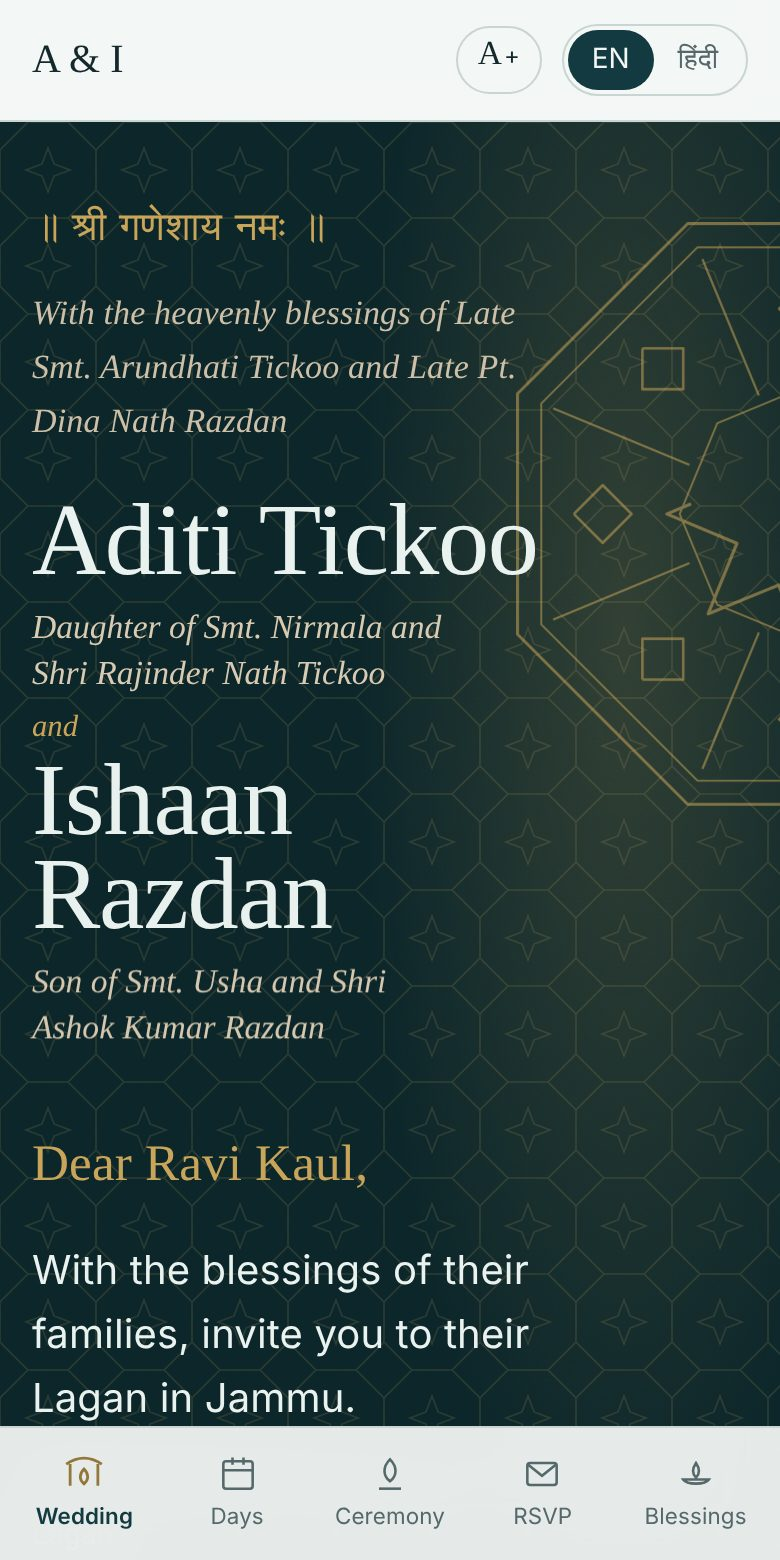
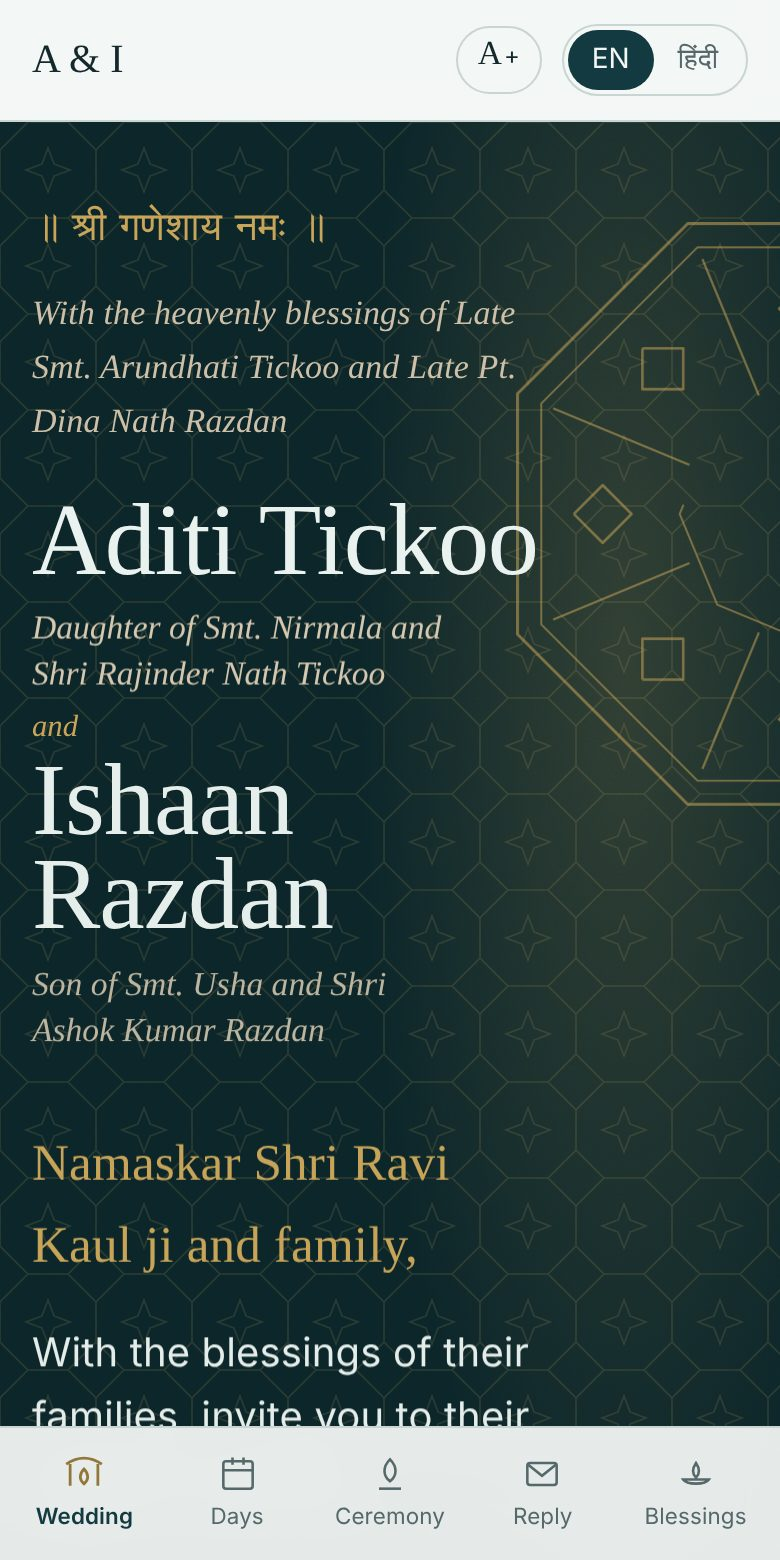
Sync from sales-page: demo fixes
Claude-Session: https://claude.ai/code/session_01Mnn13FQfUiHrSMHStJ5SNg

diff --git a/demo/aditi-ishaan/index.html b/demo/aditi-ishaan/index.html
@@ -44,7 +44,7 @@
     <nav class="nav" aria-label="Sections">
       <a href="#days" data-v="days" data-i18n="nav_days">The days</a>
       <a href="#ceremony" data-v="ceremony" data-i18n="nav_ceremony">Ceremony guide</a>
-      <a href="#rsvp" data-v="rsvp" data-i18n="nav_rsvp">RSVP</a>
+      <a href="#rsvp" data-v="rsvp" data-i18n="nav_rsvp">Reply</a>
       <a href="#blessings" data-v="wishes" data-i18n="nav_bless">Blessings</a>
     </nav>
     <button type="button" class="size" id="size-btn" aria-pressed="false" aria-label="Larger text" title="Larger text">A<small>+</small></button>
@@ -118,7 +118,6 @@
         <svg width="16" height="16" viewBox="0 0 16 16" fill="none" stroke="currentColor" aria-hidden="true"><circle cx="8" cy="8" r="7"/><path d="M8 7v4M8 4.5v.5"/></svg>
         <p id="draft-note"></p>
       </div>
-      <div class="tumbak" id="tumbak"></div>
       <div class="rite-bar">
         <div class="index" id="rite-index" role="tablist" aria-label="Jump to a rite"></div>
         <div class="bar-arrows">
@@ -157,7 +156,7 @@
   <section id="rsvp" class="sec rsvp-stage" data-view="rsvp" aria-labelledby="rsvp-h">
     <div class="wrap rsvp-wrap">
       <h2 id="rsvp-h" data-i18n="rsvp_h">Will you join us?</h2>
-      <p class="lede" data-i18n="rsvp_lede">Your invitation is waiting. Open it and reply by 15 January 2027. One reply per family is enough.</p>
+      <p class="lede" data-i18n="rsvp_lede">Let the family know if you will be there. Please reply by 15 January 2027. One reply per family is enough.</p>
       <div class="scene" id="scene">
         <div class="card-slot" id="card-slot" inert>
           <div class="card-inner">
@@ -280,12 +279,6 @@
 <footer>
   <div class="wrap">
     <span data-i18n="foot">The Wedding Story by Pixel &amp; Ink. Made for the Tickoo and Razdan families.</span>
-    <a class="linkbtn" href="#family" data-i18n="org_btn">Family view: replies and guest list</a>
-    <span class="theme-pick" role="group" aria-label="Look"><span data-i18n="theme_l">Look</span>
-      <button type="button" data-set-theme="dejhoor">Dejhoor</button>
-      <button type="button" data-set-theme="khatamband">Khatamband</button>
-      <button type="button" data-set-theme="marigold">Marigold</button>
-    </span>
   </div>
 </footer>
 
@@ -293,7 +286,7 @@
   <a href="#home" data-v="home"><svg viewBox="0 0 24 24" fill="none" stroke="currentColor" stroke-width="1.4" aria-hidden="true"><path d="M5 20V9M19 20V9M3 9q9-6 18 0"/><path d="M12 19c-2.5-2-2.5-5 0-7.5 2.5 2.5 2.5 5.5 0 7.5z"/></svg><span data-i18n="tab_home">Wedding</span></a>
   <a href="#days" data-v="days"><svg viewBox="0 0 24 24" fill="none" stroke="currentColor" stroke-width="1.4" aria-hidden="true"><rect x="4" y="5" width="16" height="15" rx="1.5"/><path d="M4 10h16M9 3v4M15 3v4"/></svg><span data-i18n="tab_days">Days</span></a>
   <a href="#ceremony" data-v="ceremony"><svg viewBox="0 0 24 24" fill="none" stroke="currentColor" stroke-width="1.4" aria-hidden="true"><path d="M12 4c4 4 4 9 0 12-4-3-4-8 0-12z"/><path d="M6 20h12"/></svg><span data-i18n="tab_cer">Ceremony</span></a>
-  <a href="#rsvp" data-v="rsvp"><svg viewBox="0 0 24 24" fill="none" stroke="currentColor" stroke-width="1.4" aria-hidden="true"><rect x="4" y="6" width="16" height="12" rx="1.5"/><path d="m4.5 7 7.5 6 7.5-6"/></svg><span data-i18n="tab_rsvp">RSVP</span></a>
+  <a href="#rsvp" data-v="rsvp"><svg viewBox="0 0 24 24" fill="none" stroke="currentColor" stroke-width="1.4" aria-hidden="true"><rect x="4" y="6" width="16" height="12" rx="1.5"/><path d="m4.5 7 7.5 6 7.5-6"/></svg><span data-i18n="tab_rsvp">Reply</span></a>
   <a href="#blessings" data-v="wishes"><svg viewBox="0 0 24 24" fill="none" stroke="currentColor" stroke-width="1.4" aria-hidden="true"><path d="M5 15c2 3 12 3 14 0z"/><path d="M12 14c-2-2-2-5 0-8 2 3 2 6 0 8z"/></svg><span data-i18n="tab_bless">Blessings</span></a>
 </nav>
 <div class="toast" id="toast" role="status" aria-live="polite"></div>

diff --git a/weddings/aditi-ishaan.js b/weddings/aditi-ishaan.js
@@ -69,7 +69,7 @@ window.WS_WEDDING={
    "n2_p": "A traditional Kashmiri Pandit vegetarian spread after Posh Puza: dum oluv, nadir yakhin, chaman qaliya, haakh and rice, with kahwa to finish.",
    "n3_h": "Taking part",
    "n3_p": "You are welcome to sit close. During Posh Puza every guest is invited to shower the couple with flowers; petals are handed out.",
-   "rsvp_lede": "Your invitation is waiting. Open it and reply by 15 January 2027. One reply per family is enough.",
+   "rsvp_lede": "Let the family know if you will be there. Please reply by 15 January 2027. One reply per family is enough.",
    "case_title": "Lagan invitation",
    "ev_maenz": "Maenziraat, Fri 12 Feb",
    "ev_lagan": "Lagan, Sat 13 Feb",
@@ -103,7 +103,7 @@ window.WS_WEDDING={
    "n2_p": "पोश पूजा के बाद पारंपरिक कश्मीरी पंडित शाकाहारी भोज: दम ओलुव, नदिर यखिन, चमन कलिया, हाख और भात, और अंत में कहवा।",
    "n3_h": "सहभागिता",
    "n3_p": "आप पास बैठ सकते हैं। पोश पूजा में हर अतिथि दंपति पर फूल बरसाता है; पंखुड़ियाँ दी जाएँगी।",
-   "rsvp_lede": "आपका निमंत्रण प्रतीक्षा में है। इसे खोलें और 15 जनवरी 2027 तक उत्तर दें। हर परिवार से एक उत्तर पर्याप्त है।",
+   "rsvp_lede": "परिवार को बताएं कि आप आएंगे या नहीं। कृपया 15 जनवरी 2027 तक उत्तर दें। हर परिवार से एक उत्तर पर्याप्त है।",
    "case_title": "लगन निमंत्रण",
    "ev_maenz": "मेंज़िरात, शुक्र 12 फ़र.",
    "ev_lagan": "लगन, शनि 13 फ़र.",

diff --git a/index.html b/index.html
@@ -349,9 +349,9 @@ footer a:hover{color:#fff}
   <div class="wrap">
     <h2 class="sec-h rv" id="how-h">How it works</h2>
     <ol class="how-steps">
-      <li class="rv"><div class="how-t"><h3>You send it.</h3><p>Each guest gets their own invitation on WhatsApp, from your phone, with their name on the card.</p></div><div class="phone sm"><div class="screen"><img src="/assets/stills/home-guest-khatamband.jpg" alt="The invitation as Ravi Kaul sees it, greeting him by name" loading="lazy" width="780" height="1560"></div></div></li>
+      <li class="rv"><div class="how-t"><h3>You send it.</h3><p>Each guest gets their own invitation on WhatsApp, from your phone, with their name on the card.</p></div><div class="phone sm"><div class="screen"><img src="/assets/stills/home-guest-khatamband.jpg" alt="The invitation as Shri Ravi Kaul ji sees it, greeting him and his family by name" loading="lazy" width="780" height="1560"></div></div></li>
       <li class="rv"><div class="how-t"><h3>They open it.</h3><p>Only their functions, with venues, timings and what to wear. Your phone goes quiet the week before.</p></div><div class="phone sm"><div class="screen"><img src="/assets/stills/days-khatamband.jpg" alt="One day of the wedding with its time, venue, directions and colour code" loading="lazy" width="780" height="1560"></div></div></li>
-      <li class="rv"><div class="how-t"><h3>It comes back to you.</h3><p>Who is coming to which function, and every blessing, written or spoken.</p></div><div class="phone sm"><div class="screen"><img src="/assets/stills/rsvp-khatamband.jpg" alt="The reply card, already filled with Ravi Kaul's name" loading="lazy" width="780" height="1560"></div></div></li>
+      <li class="rv"><div class="how-t"><h3>It comes back to you.</h3><p>Who is coming to which function, and every blessing, written or spoken.</p></div><div class="phone sm"><div class="screen"><img src="/assets/stills/rsvp-khatamband.jpg" alt="The reply card, already filled with his name" loading="lazy" width="780" height="1560"></div></div></li>
     </ol>
   </div>
 </section>

diff --git a/engine/app.js b/engine/app.js
@@ -62,7 +62,7 @@ function renderDays(){
     body.appendChild(meta);body.appendChild(el("h3",null,L(d.title)));body.appendChild(el("p","where",L(d.where)));
     var dp=el("p","desc");dp.appendChild(hl(L(d.desc)));body.appendChild(dp);
     var acts=el("div","day-acts");
-    (d.venues||[]).forEach(function(k){var v=VENUES[k];if(!v)return;
+    if(d.open||guestInv)(d.venues||[]).forEach(function(k){var v=VENUES[k];if(!v)return;
       var a=el("a","mini-link",t("dir",{p:L(v.name)}));a.href="https://www.google.com/maps/search/?api=1&query="+encodeURIComponent(v.q);a.target="_blank";a.rel="noopener";
       var wrap=el("div","venue");wrap.appendChild(a);wrap.appendChild(el("span","small",L(v.land)));acts.appendChild(wrap);});
     if(d.cal){var c=el("a","mini-link cal",t("cal"));c.target="_blank";c.rel="noopener";
@@ -674,7 +674,7 @@ function renderTumbak(){
 }
 
 /* ---------- five seconds of tumbaknaer on arrival ---------- */
-var introTimer=null,introDone=false;
+var introTimer=null,introDone=true; /* no synthetic drum on arrival */
 function stopIntro(){if(introTimer){clearInterval(introTimer);introTimer=null;}}
 function playIntro(){
   if(introDone||introTimer)return;introDone=true;stopBeat();
@@ -736,7 +736,7 @@ function applyInvites(){
 }
 function greetGuest(sl){
   var parts=sl.split("--");sl=parts[0];guestInv=parts[1]?parts[1].split(""):null;
-  guestName=sl.split("-").map(function(w){return w?w.charAt(0).toUpperCase()+w.slice(1):"";}).join(" ").trim();
+  var small={ji:1,and:1,family:1,of:1};guestName=sl.split("-").map(function(w,i){return !w?"":(i&&small[w])?w:w.charAt(0).toUpperCase()+w.slice(1);}).join(" ").trim();
   if(guestName&&!$("r-name").value&&!rsvps.some(function(r){return r.mine;}))$("r-name").value=guestName;
   save("lagan27_me",{name:guestName,inv:guestInv});applyInvites();renderDays();renderGlance();watchDays();revealIn();
 }

diff --git a/engine/strings.js b/engine/strings.js
@@ -4,7 +4,7 @@ window.WS_ENGINE_T={
   "nav_days": "The days",
   "nav_ceremony": "Ceremony guide",
   "nav_notes": "For guests",
-  "nav_rsvp": "RSVP",
+  "nav_rsvp": "Reply",
   "nav_bless": "Blessings",
   "nav_photos": "Photos",
   "tab_home": "Wedding",
@@ -24,9 +24,9 @@ window.WS_ENGINE_T={
   "glance_h": "The wedding at a glance",
   "tab_days": "Days",
   "tab_cer": "Ceremony",
-  "tab_rsvp": "RSVP",
+  "tab_rsvp": "Reply",
   "tab_bless": "Blessings",
-  "greet": "Dear {name},",
+  "greet": "Namaskar {name},",
   "tile_days_n": "gatherings",
   "tile_days_h": "The days",
   "tile_days_p": "From Kanishran to Satraat, and which ones are open to all guests.",
@@ -156,7 +156,7 @@ window.WS_ENGINE_T={
   "nav_days": "कार्यक्रम",
   "nav_ceremony": "संस्कार मार्गदर्शिका",
   "nav_notes": "अतिथियों के लिए",
-  "nav_rsvp": "उपस्थिति",
+  "nav_rsvp": "उत्तर",
   "nav_bless": "आशीर्वाद",
   "nav_photos": "तस्वीरें",
   "tab_home": "विवाह",
@@ -178,7 +178,7 @@ window.WS_ENGINE_T={
   "tab_cer": "संस्कार",
   "tab_rsvp": "उत्तर",
   "tab_bless": "आशीर्वाद",
-  "greet": "प्रिय {name},",
+  "greet": "नमस्कार {name},",
   "tile_days_n": "कार्यक्रम",
   "tile_days_h": "कार्यक्रम",
   "tile_days_p": "कनिश्रान से सतरात तक, और कौन-से सभी अतिथियों के लिए हैं।",

diff --git a/template/wedding.html b/template/wedding.html
@@ -115,7 +115,6 @@
         <svg width="16" height="16" viewBox="0 0 16 16" fill="none" stroke="currentColor" aria-hidden="true"><circle cx="8" cy="8" r="7"/><path d="M8 7v4M8 4.5v.5"/></svg>
         <p id="draft-note"></p>
       </div>
-      <div class="tumbak" id="tumbak"></div>
       <div class="rite-bar">
         <div class="index" id="rite-index" role="tablist" aria-label="Jump to a rite"></div>
         <div class="bar-arrows">
@@ -277,8 +276,7 @@
 <footer>
   <div class="wrap">
     <span data-i18n="foot">The Wedding Story by Pixel &amp; Ink. Made for the Tickoo and Razdan families.</span>
-    <a class="linkbtn" href="#family" data-i18n="org_btn">Family view: replies and guest list</a>
-{{look_pick}}  </div>
+  </div>
 </footer>
 
 <nav class="tabbar" aria-label="Sections">

diff --git a/engine/app.css b/engine/app.css
@@ -614,3 +614,6 @@ html,body{overflow-x:clip}
 .cue2{position:static;margin:0 auto;max-width:100%;animation:fadeup 1s ease 2.4s both}
 .hero .actions{margin-bottom:22px}
 @media (max-width:720px){.hero .actions{margin-bottom:14px}}
+
+/* Once the reply card is open, the closed invitation below it is no longer shown */
+.scene.open .case,.scene.open .case-hint{display:none}
